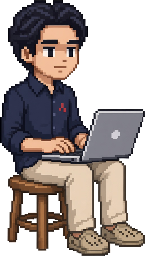
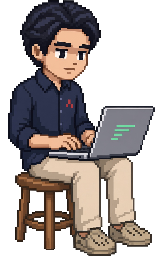
Animate focus as a seated typing loop.
The character sits with the laptop screen toward us, and the code on that screen steps forward instead of the whole sprite bouncing.

diff --git a/src/components/companion/CompanionActor.tsx b/src/components/companion/CompanionActor.tsx
@@ -10,6 +10,13 @@ const SPRITES = {
   sleep: "/companion/sleep.png",
 } as const;
 
+const FOCUS_FRAMES = [
+  "/companion/work.png",
+  "/companion/work-2.png",
+  "/companion/work-3.png",
+  "/companion/work-4.png",
+];
+
 export type CompanionPose = keyof typeof SPRITES;
 
 export default function CompanionActor({
@@ -22,13 +29,21 @@ export default function CompanionActor({
   const [step, setStep] = useState(0);
 
   useEffect(() => {
-    if (mode !== "walk") return undefined;
-    const id = window.setInterval(() => setStep((frame) => (frame + 1) % 2), 180);
+    if (mode !== "walk" && mode !== "focus") return undefined;
+    if (window.matchMedia("(prefers-reduced-motion: reduce)").matches) return undefined;
+    const frames = mode === "walk" ? 2 : FOCUS_FRAMES.length;
+    const delay = mode === "walk" ? 180 : 150;
+    const id = window.setInterval(() => setStep((frame) => (frame + 1) % frames), delay);
     return () => window.clearInterval(id);
   }, [mode]);
 
   const flip = mode === "walk" && facing < 0;
-  const src = mode === "walk" && step === 1 ? "/companion/walk-2.png" : SPRITES[mode];
+  const src =
+    mode === "walk" && step % 2 === 1
+      ? "/companion/walk-2.png"
+      : mode === "focus"
+        ? FOCUS_FRAMES[step % FOCUS_FRAMES.length]
+        : SPRITES[mode];
 
   return (
     <div className={`pet pet-${mode}`} style={flip ? { transform: "scaleX(-1)" } : undefined}>

diff --git a/src/components/companion/companion.css b/src/components/companion/companion.css
@@ -24,8 +24,14 @@
   animation: pet-step 0.36s steps(2, end) infinite;
 }
 
+.pet-focus {
+  width: 176px;
+  height: 168px;
+}
+
 .pet-focus .pet-body {
-  animation: pet-type 0.7s ease-in-out infinite;
+  height: 156px;
+  animation: none;
 }
 
 .pet-break .pet-body {
@@ -86,16 +92,6 @@
   }
   50% {
     transform: translateY(-3px);
-  }
-}
-
-@keyframes pet-type {
-  0%,
-  100% {
-    transform: translateY(0);
-  }
-  50% {
-    transform: translateY(1px);
   }
 }
 
